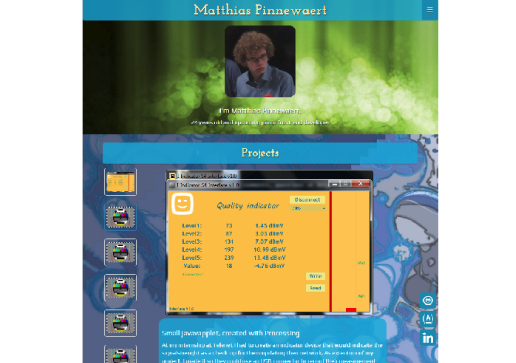
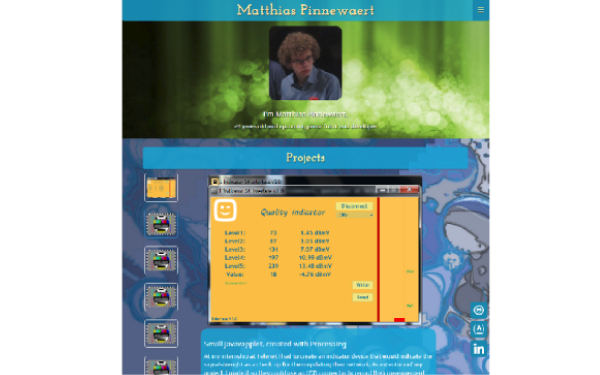
Added files via upload

diff --git a/index.html b/index.html
@@ -7,7 +7,7 @@
 		<title>Portfolio |Matthias Pinnewaert</title>
 		<link rel='stylesheet prefetch' href='https://maxcdn.bootstrapcdn.com/bootstrap/3.3.5/css/bootstrap.min.css'>
 		<link rel="stylesheet" href="css/style.css">
-	
+		<link rel="stylesheet" href="css/quote.css">
 	<!-- Lettertypes -->
 		<link href='https://fonts.googleapis.com/css?family=Josefin+Slab:700' rel='stylesheet' type='text/css'>	
 		<link href='https://fonts.googleapis.com/css?family=Play' rel='stylesheet' type='text/css'>
@@ -50,22 +50,22 @@
 					<ul class="project-list list-unstyled">
 						<li class="pr-active">
 							<a class="no-background thumbnail" href="#pr-tab1">
-								<img class="img-rounded" src="pics/portfolio-proj.png" alt="Test">
+								<img class="img-rounded" src="pics/portfolio-proj.png" alt="portoflio">
 							</a>
 						</li>
 						<li class="">
 							<a class="no-background thumbnail" href="#pr-tab2">
-								<img class="img-rounded" src="pics/telenet-app.png" alt="Test">
+								<img class="img-rounded" src="pics/telenet-app.png" alt="telenet-app">
 							</a>
 						</li>
 						<li class="">
 							<a class="no-background thumbnail" href="#pr-tab3">
-								<img class="img-rounded" src="pics/test-screen.png" alt="Test">
+								<img class="img-rounded" src="pics/selah-page.png" alt="selah-page">
 							</a>
 						</li>
 						<li class="">
 							<a class="no-background thumbnail" href="#pr-tab4">
-								<img class="img-rounded" src="pics/test-screen.png" alt="Test">
+								<img class="img-rounded" src="pics/quote-page.png" alt="quote-page">
 							</a>
 						</li>
 						<li class="">
@@ -119,13 +119,19 @@
 						</div>			
 						<div class="pr-tab pr-hide" id="pr-tab3"> 
 							<div>
-								<p>-- Under Construction -- (3)</p>
+								<!--
+								<p><a href="https://pinny91.github.io/selah" target="_blank">Click here</a></p>
+								-->
+								<p>Coming Soon...</p>
 							</div>
 						</div>
 						<div class="pr-tab pr-hide" id="pr-tab4"> 
-							<div>
-								<p>-- Under Construction -- (4)</p>
-							</div>
+							<div id="quote-machine" class="container">
+								<button class="btn btn-primary btn-lg btn-block" id="getQuote"> 
+									<h1 id="quote-button-title">Random Quote</h1>
+								</button>
+								<div id="quote-block" class=""></div>
+							</div>		
 						</div>
 						<div class="pr-tab pr-hide" id="pr-tab5"> 
 							<div>
@@ -219,6 +225,7 @@
 		</section>
     	<script src="http://code.jquery.com/jquery-1.11.3.min.js"></script>	
 		<script src="js/index.js"></script> 
+		<script src="js/quote.js"></script> 
 	
 	</body>
 </html>

diff --git a/js/quote.js b/js/quote.js
@@ -1,0 +1,31 @@
+var quote = '';
+var author = '';
+
+$(document).ready(function() {
+	getQuote();	
+	$("#getQuote").on("click", function(){
+		getQuote();
+		var quoteBlock = $('#quote-block');
+		quoteBlock.html('');
+		quoteBlock.append(
+			'<div class="text-bubble"><p id="quote">'+quote+'</p>' + '<p id="author">' + author + '</p></div>'
+		);
+	});
+});	
+
+
+function getQuote() {
+  $.ajax({
+    headers: {
+      "X-Mashape-Key": "OivH71yd3tmshl9YKzFH7BTzBVRQp1RaKLajsnafgL2aPsfP9V",
+      Accept: "application/json",
+      "Content-Type": "application/x-www-form-urlencoded"
+    },
+    url: 'https://andruxnet-random-famous-quotes.p.mashape.com/cat=',
+    success: function(response) {
+      var json = JSON.parse(response);
+      quote = json.quote;
+      author = json.author;
+    }
+  });
+}

diff --git a/css/style.css b/css/style.css
@@ -175,6 +175,7 @@ a:visited {
 #projects-sectie{
 	background: url("back2.jpg") no-repeat left center fixed; 
 	background-size:  cover;
+	min-height: 500px;
 }
 #about-sectie{
 	background: url("back1.jpg") no-repeat left center fixed; 
@@ -223,6 +224,9 @@ a:visited {
 
 .pr-tab.pr-hide {
 	display: none;
+}
+.project-list .pr-active > a{
+	border: 5px solid #337AB7;
 }
 .pr-tab.pr-active {
 	display: block;

diff --git a/css/quote.css b/css/quote.css
@@ -1,0 +1,21 @@
+#quote-button-title {
+	margin-top: 0;
+	margin-bottom: 0;
+}
+
+#quote-machine {
+	max-width: 500px;
+}
+
+#quote-machine button:active {
+		border: none;
+}
+
+#quote {
+	font-style: italic;
+	font-weight: 600;
+	text-align: center;
+}
+#author {
+	text-align: right;
+}

diff --git a/js/index.js b/js/index.js
@@ -64,4 +64,6 @@ jQuery(document).ready(function(){
 			 });
 	});
 
-
+$(".btn").mouseup(function(){
+    $(this).blur();
+})
